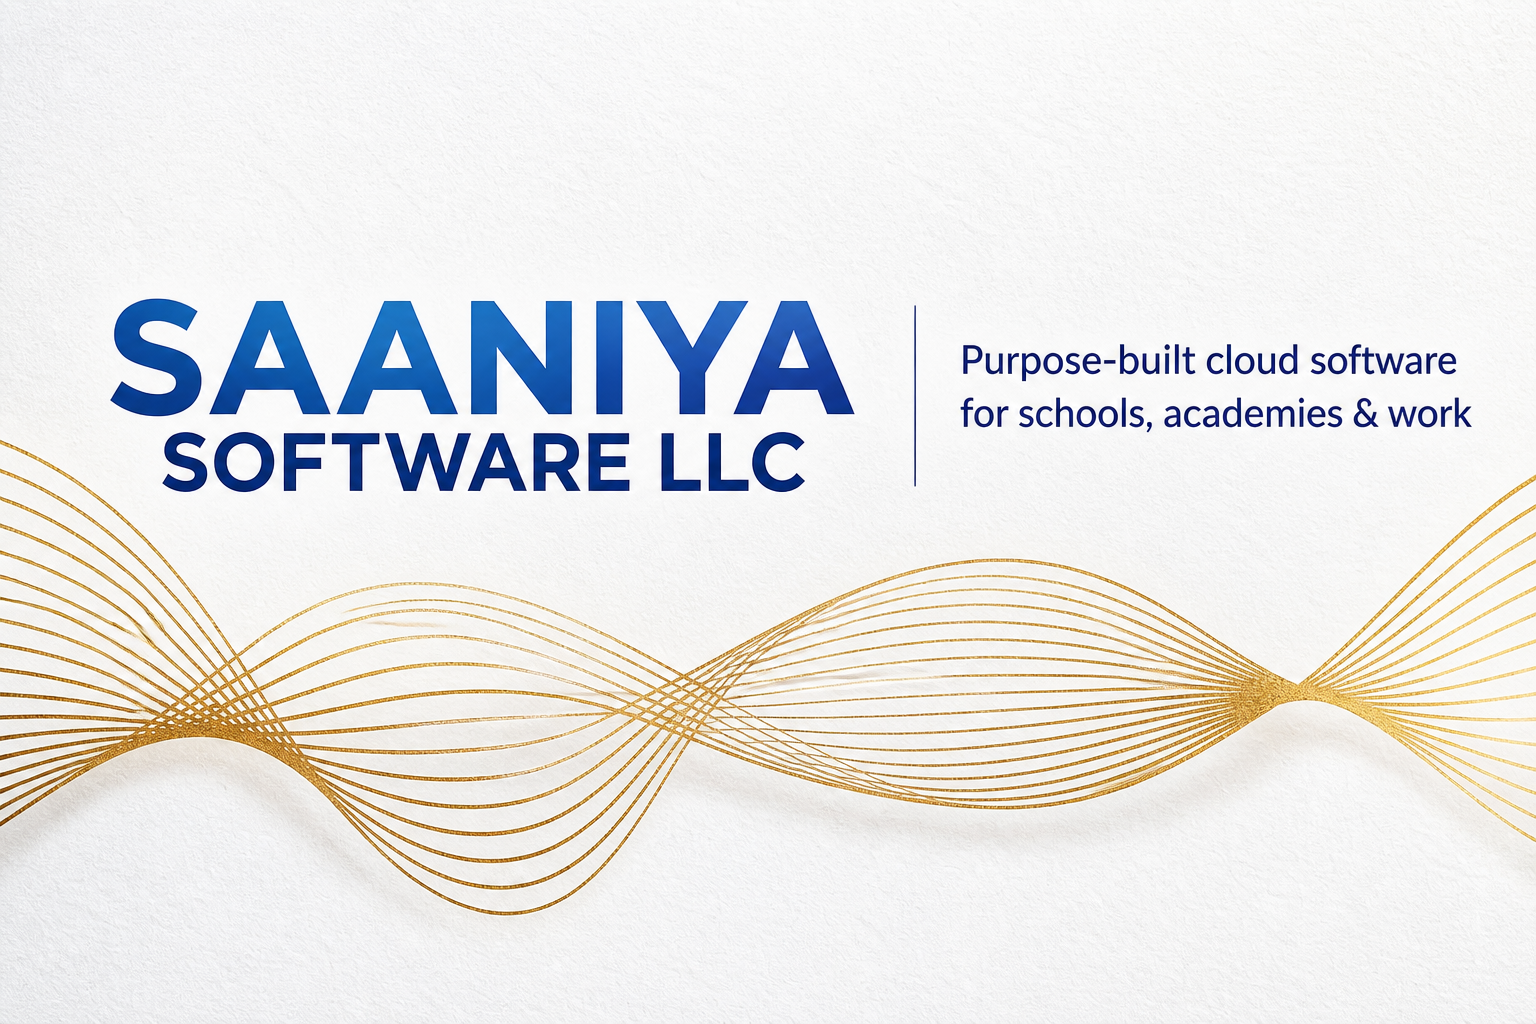
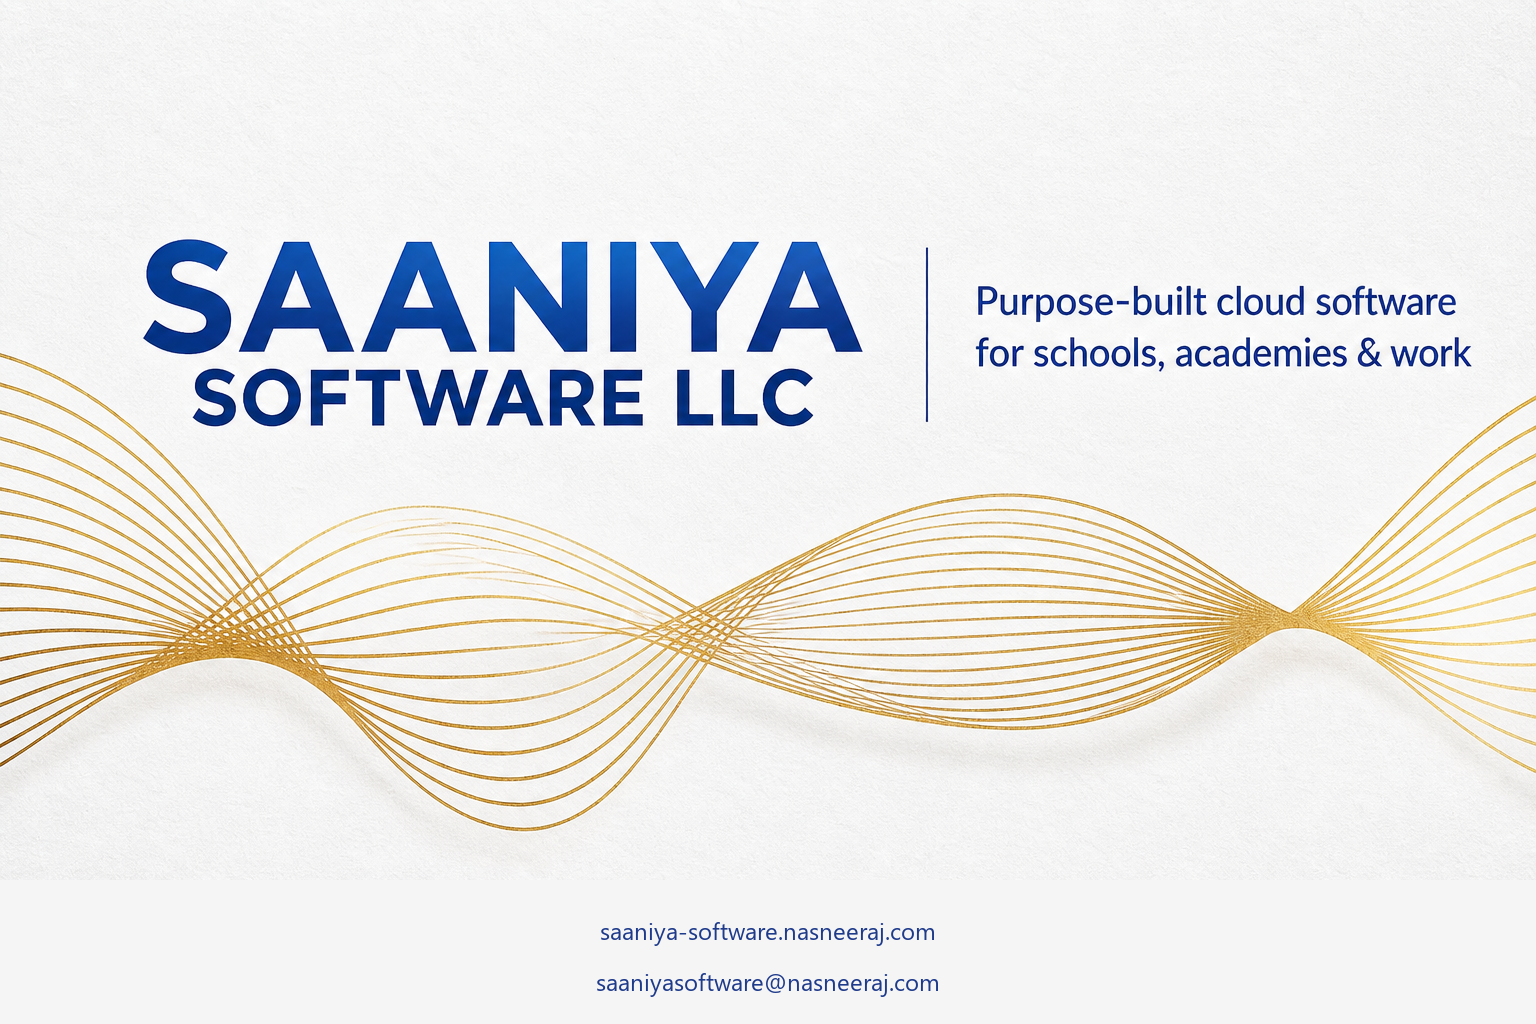
Refresh social kit art with website and contact email.
Use saaniya-software.nasneeraj.com and saaniyasoftware@nasneeraj.com on Meta assets and setup docs.

Changed region(s): [[0.0, 0.2188, 1.0, 0.9062], [0.375, 0.9062, 0.5938, 0.9688]]

diff --git a/social-kit.html b/social-kit.html
@@ -191,7 +191,7 @@
                 <img class="avatar" src="assets/social/social-avatar-saaniya.png" alt="Profile avatar">
                 <div class="meta">
                     <h3>Saaniya Software LLC</h3>
-                    <p>Software company · nasneeraj.com</p>
+                    <p>Software company · saaniya-software.nasneeraj.com</p>
                 </div>
             </div>
         </div>
@@ -209,7 +209,7 @@
                 <strong>Saaniya Software LLC</strong>
                 Purpose-built cloud software for schools, academies &amp; work.<br>
                 Cybersecurity · GuruVidyaZen · SISLMS · Saarthee<br>
-                🔗 nasneeraj.com
+                🔗 saaniya-software.nasneeraj.com
             </div>
             <img src="assets/social/ig-post-brand.png" alt="Sample Instagram post" style="width:100%;display:block;">
         </div>
@@ -233,7 +233,7 @@
                 <label>Instagram bio (150 chars max)</label>
                 <div class="copy-block">Purpose-built cloud software for schools, academies &amp; work.
 Cybersecurity · GuruVidyaZen · SISLMS · Saarthee
-nasneeraj.com</div>
+saaniya-software.nasneeraj.com</div>
             </div>
             <div class="card" style="grid-column: 1 / -1;">
                 <label>Facebook About / short description</label>

diff --git a/scripts/fix_social_urls.py b/scripts/fix_social_urls.py
@@ -1,0 +1,69 @@
+from pathlib import Path
+from PIL import Image, ImageDraw, ImageFont
+
+social = Path(__file__).resolve().parents[1] / "assets" / "social"
+url = "saaniya-software.nasneeraj.com"
+email = "saaniyasoftware@nasneeraj.com"
+
+# file, band_top_frac, font_size_frac, color, url_y_frac, email_y_frac
+jobs = [
+    ("ig-post-brand.png", 0.86, 0.024, (30, 58, 138), 0.90, 0.95),
+    ("ig-story-security.png", 0.88, 0.024, (30, 58, 138), 0.915, 0.96),
+    ("fb-cover-saaniya.png", 0.86, 0.024, (30, 58, 138), 0.905, 0.955),
+    # taller band to cover leftover mid-line URL from generation
+    ("ig-post-guruvidyazen.png", 0.78, 0.022, (76, 29, 149), 0.86, 0.92),
+    ("ig-post-sislms.png", 0.88, 0.022, (76, 29, 149), 0.915, 0.96),
+    ("ig-post-riyaz.png", 0.88, 0.022, (76, 29, 149), 0.915, 0.96),
+    ("ig-post-coplanner.png", 0.88, 0.020, (30, 58, 138), 0.915, 0.96),
+    ("ig-post-fleet.png", 0.88, 0.020, (30, 58, 138), 0.915, 0.96),
+    ("ig-post-astrology.png", 0.88, 0.020, (212, 175, 55), 0.915, 0.96),
+]
+
+font_candidates = [
+    r"C:\Windows\Fonts\segoeui.ttf",
+    r"C:\Windows\Fonts\arial.ttf",
+    r"C:\Windows\Fonts\calibri.ttf",
+]
+
+
+def load_font(size: int) -> ImageFont.ImageFont:
+    for path in font_candidates:
+        try:
+            return ImageFont.truetype(path, size)
+        except OSError:
+            continue
+    return ImageFont.load_default()
+
+
+def centered_text(draw: ImageDraw.ImageDraw, text: str, y: int, w: int, font, color) -> None:
+    bbox = draw.textbbox((0, 0), text, font=font)
+    tw = bbox[2] - bbox[0]
+    th = bbox[3] - bbox[1]
+    x = (w - tw) // 2
+    draw.text((x, y - th // 2), text, fill=color, font=font)
+
+
+def main() -> None:
+    for name, band_top, size_frac, color, url_y, email_y in jobs:
+        path = social / name
+        im = Image.open(path).convert("RGB")
+        w, h = im.size
+        # sample near bottom for band fill
+        sample = im.getpixel((w // 2, min(h - 2, int(h * 0.93))))
+        draw = ImageDraw.Draw(im)
+        top = int(h * band_top)
+        draw.rectangle([0, top, w, h], fill=sample)
+        font = load_font(max(14, int(h * size_frac)))
+        # for GVZ, restore attribution line above contact
+        if name == "ig-post-guruvidyazen.png":
+            byline = "by Saaniya Software LLC"
+            by_font = load_font(max(14, int(h * 0.024)))
+            centered_text(draw, byline, int(h * 0.82), w, by_font, color)
+        centered_text(draw, url, int(h * url_y), w, font, color)
+        centered_text(draw, email, int(h * email_y), w, font, color)
+        im.save(path, optimize=True)
+        print(f"fixed {name} ({w}x{h})")
+
+
+if __name__ == "__main__":
+    main()

diff --git a/SOCIAL_KIT_META_SETUP.md b/SOCIAL_KIT_META_SETUP.md
@@ -1,0 +1,63 @@
+# Facebook & Instagram — how to publish from the social kits
+
+Meta needs you signed in (or an official Meta API connection with your Business account). These kits prepare copy and images; you publish them in Meta Business Suite. You are **not** uploading website HTML to Instagram or Facebook.
+
+**One account for everything:** Facebook Page + Instagram `@saaniyasoftware` (Saaniya Software LLC). Product kits are posts under that same account — not separate Pages.
+
+## Open the kits
+
+| Kit | URL |
+|-----|-----|
+| Company hub | https://saaniya-software.nasneeraj.com/social-kit |
+| GuruVidyaZen | https://saaniya-software.nasneeraj.com/social-guruvidyazen |
+| SISLMS | https://saaniya-software.nasneeraj.com/social-sislms |
+| Riyaz Studio | https://saaniya-software.nasneeraj.com/social-riyaz |
+| Saarthee CoPlanner | https://saaniya-software.nasneeraj.com/social-saarthee-coplanner |
+| Saarthee Fleet | https://saaniya-software.nasneeraj.com/social-saarthee-fleet |
+| Astrology book | https://saaniya-software.nasneeraj.com/social-astrology |
+
+Local files: `social-kit.html` and `social-*.html`. Assets live in `assets/social/`.
+
+## One-time Meta setup
+
+1. Open [Meta Business Suite](https://business.facebook.com/).
+2. Create a Facebook **Page** (Business) named **Saaniya Software LLC**.
+3. Create an Instagram **Professional** account; connect it to that Facebook Page.
+4. From the company kit: upload **profile photo** (avatar) + **Facebook cover**.
+5. Set website to `https://saaniya-software.nasneeraj.com` and email to `saaniyasoftware@nasneeraj.com`.
+6. Use downloadable art from `assets/social/` — footers show `saaniya-software.nasneeraj.com` and `saaniyasoftware@nasneeraj.com`.
+7. Paste bio / About text from the company kit.
+8. Publish the first brand post + story; pin highlights (e.g. Products · Cybersecurity · Contact).
+
+## Post each product
+
+For each product kit:
+
+1. Download the square feed image (and story image if you want).
+2. In Business Suite → **Create post**.
+3. Paste the caption from the kit.
+4. Publish to **Facebook + Instagram** together.
+
+Suggested order:
+
+1. Brand intro (company kit)
+2. GuruVidyaZen
+3. SISLMS
+4. Riyaz
+5. CoPlanner
+6. Fleet
+7. Astrology
+
+## What Cursor / an agent cannot do
+
+Posting requires your Meta login (or Graph API tokens you create). An agent can tighten captions, draft a schedule, or help wire Meta Graph API later — it cannot click Publish inside your Facebook/Instagram account.
+
+## Related
+
+- Branding rule: `.cursor/rules/saaniya-branding.mdc`
+- Contact email: `saaniyasoftware@nasneeraj.com`
+- Marketing host: `https://saaniya-software.nasneeraj.com`
+
+## DNS
+
+Marketing host is already live with CNAME `saaniya-software` → `ff02ea68469414bf.vercel-dns-016.com.` Apex/`www` redirect to this host in `vercel.json`.
